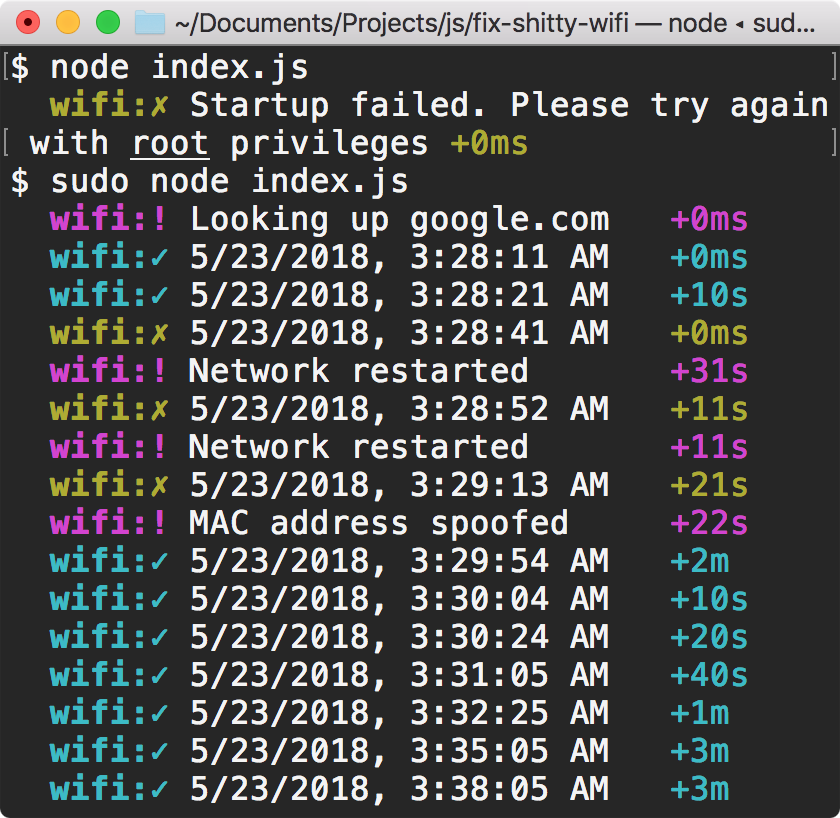
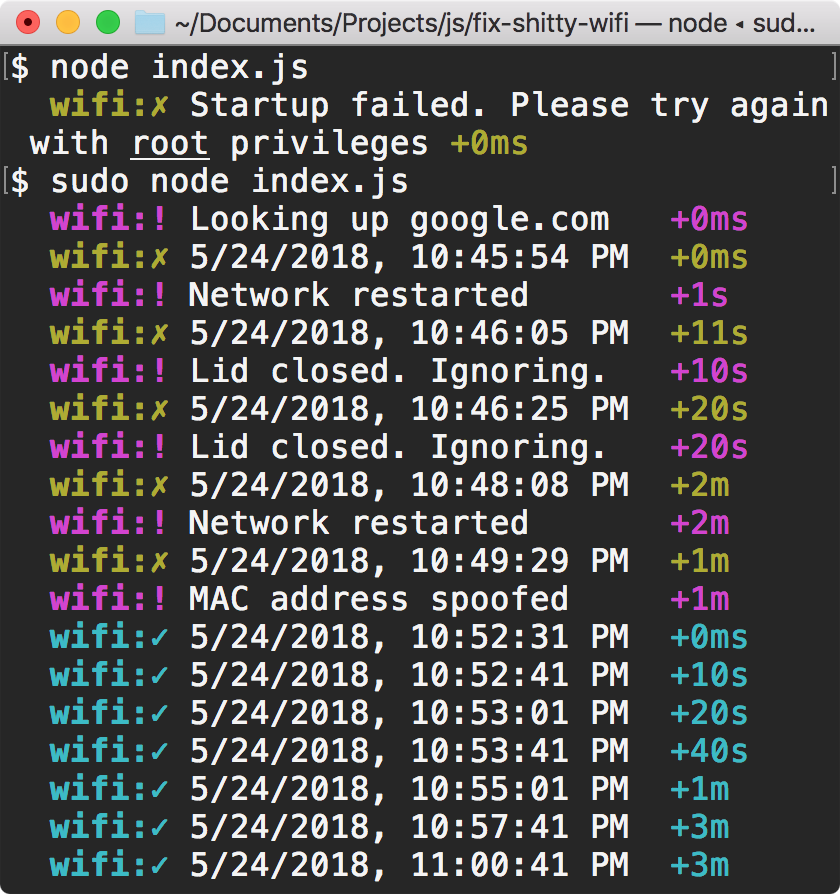
added ability to save energy and do nothing when lid is closed; also implemented maximum tries, after which no action is taken

diff --git a/index.js b/index.js
@@ -6,6 +6,8 @@ let failed = 0,
   okInterval = actualMin
 const DEVICE = `$(networksetup -listallhardwareports | awk '$3=="Wi-Fi" {getline; print $2}')`,
   WIFI = `networksetup -setairportpower ${DEVICE}`,
+  LID_CLOSED =
+    "ioreg -r -k AppleClamshellState -d 4 | grep AppleClamshellState | awk '{print $4}'",
   SPOOF_MAC =
     // wifi needs to be turned on to change MAC address
     `${WIFI} on && ` +
@@ -14,67 +16,77 @@ const DEVICE = `$(networksetup -listallhardwareports | awk '$3=="Wi-Fi" {getline
     `sudo ifconfig ${DEVICE} ether $(openssl rand -hex 6 | sed 's/\\(..\\)/\\1:/g; s/.$//')`,
   { lookup } = require('dns'),
   { execSync } = require('child_process'),
+  exec = command =>
+    execSync(command)
+      .toString()
+      .trimRight(),
   { bgWhite, gray, underline } = require('chalk'),
   debug = require('debug'),
   info = debug('wifi:!'),
   error = debug('wifi:✗'),
   ok = debug('wifi:✓'),
-  msg = err =>
-    gray(
-      err
-        .toString()
-        .trimRight()
-        .split('\n')
-        .pop()
+  fail = (action, err, msg) =>
+    error(
+      `${action} failed!\n\t${gray(
+        err
+          .toString()
+          .trimRight()
+          .split('\n')
+          .pop()
+      )}\n\t(${bgWhite(msg)})`
     ),
   now = () => new Date().toLocaleString() + '\t',
   sleep = interval => setTimeout(check, interval * 1000),
+  sleepError = () => sleep((errorInterval = exponentiate(errorInterval))),
   exponentiate = interval =>
     Math.min(interval * process.env.GROWTH_RATE, process.env.MAX_INTERVAL),
   restart = msg => {
     try {
-      execSync(`${WIFI} off && ${WIFI} on`)
+      exec(`${WIFI} off && ${WIFI} on`)
     } catch (err) {
-      error(
-        `Network restart failed: ${msg(err)} ${bgWhite('(Is this running on a Mac?)')}`
-      )
+      fail('Network restart', err, 'Is this running on a Mac?')
       process.exit(3)
     }
 
-    info(msg)
-    sleep((errorInterval = exponentiate(errorInterval)))
+    info(msg + '\t')
+    sleepError()
   },
   check = () =>
     lookup(process.env.TEST_SITE, err => {
       if (err) {
         if (err.code != 'ENOTFOUND') {
-          error(
-            `Lookup failed: ${msg(err)} ${bgWhite('(Is the test site set up correctly?)')}`
-          )
+          fail('Lookup', err, 'Is this test site set up correctly?')
           process.exit(2)
         }
 
         error(now())
         okInterval = actualMin
 
-        // fail too many times -> spoof MAC
-        if (++failed >= process.env.FAIL_LIMIT) {
-          let spoofErr
+        // if the lid is closed, don't do anything!
+        try {
+          if (exec(LID_CLOSED) == 'Yes') {
+            info('Lid closed. Ignoring.\t')
+            return sleepError()
+          }
+        } catch (err) {
+          fail('Determining lid state', err, 'Is this running on a Mac?')
+          process.exit(3)
+        }
 
+        // fail too many times -> spoof MAC
+        if (++failed == process.env.MAX_TRIES)
           try {
-            execSync(SPOOF_MAC)
+            exec(SPOOF_MAC)
+            restart('MAC address spoofed')
           } catch (err) {
             // this is the one error that is recoverable from, so don't exit
-            spoofErr = err
-            error(
-              `MAC address spoofing failed: ${msg(err)} ${bgWhite('(Is the Wi-Fi on?)')}`
-            )
+            fail('MAC address spoofing', err, 'Is the Wi-Fi on?')
+            sleepError()
           }
-
-          if (spoofErr) {
-            sleep((errorInterval = exponentiate(errorInterval)))
-          } else restart('MAC address spoofed\t')
-        } else restart('Network restarted\t')
+        else if (failed > process.env.MAX_TRIES)
+          // give up after max number of tries
+          sleepError()
+        else restart('Network restarted')
       } else {
         ok(now())
         errorInterval = actualMin
